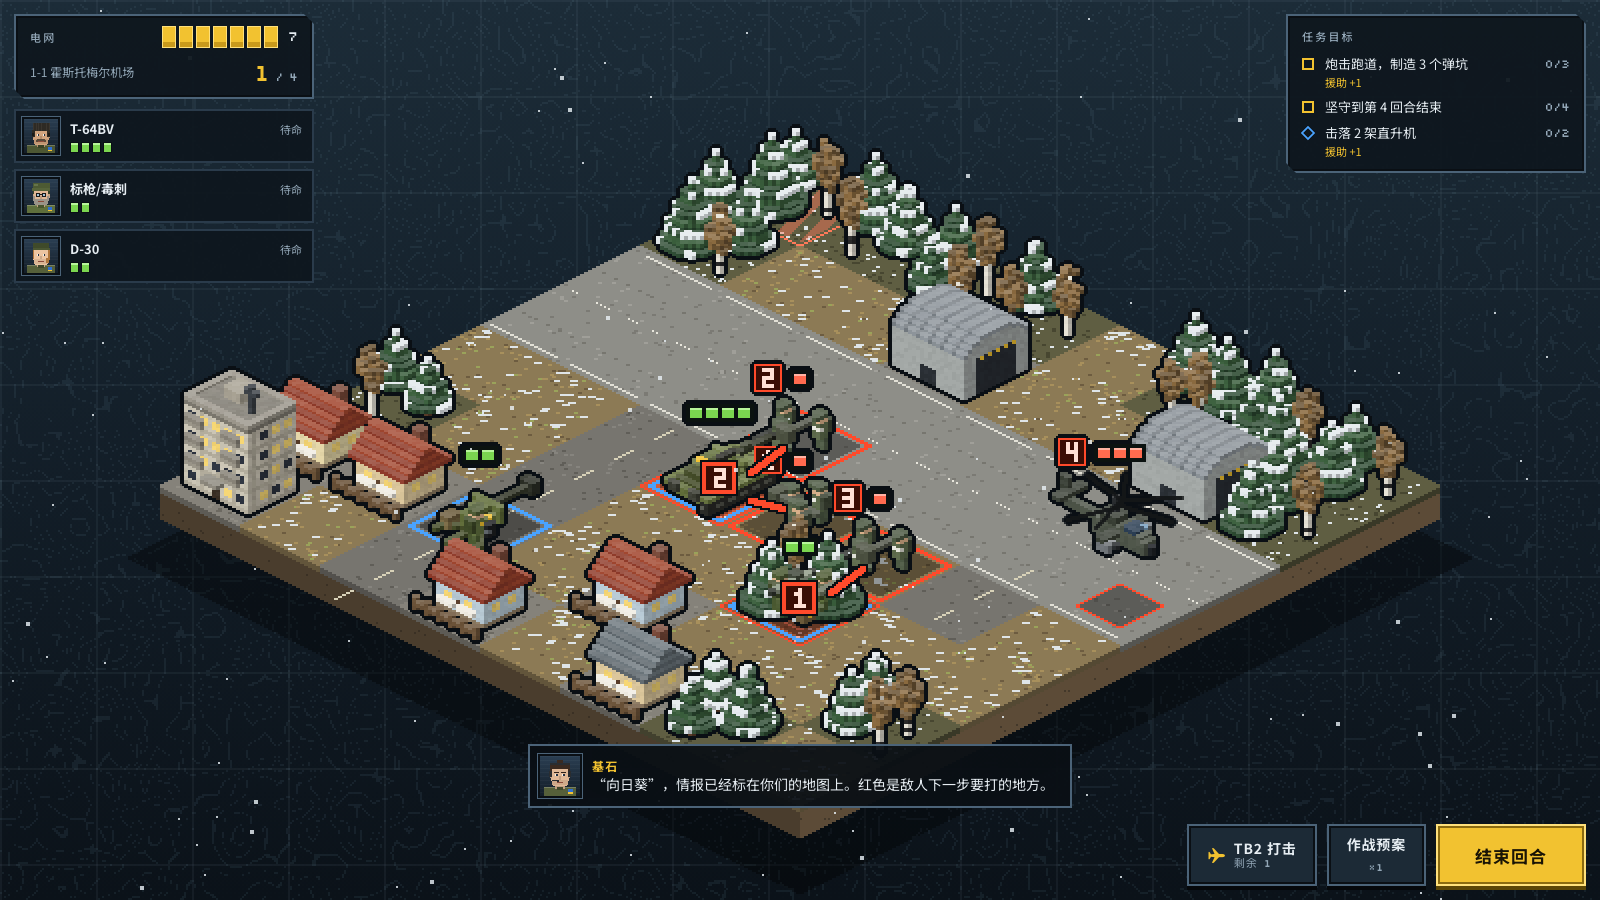
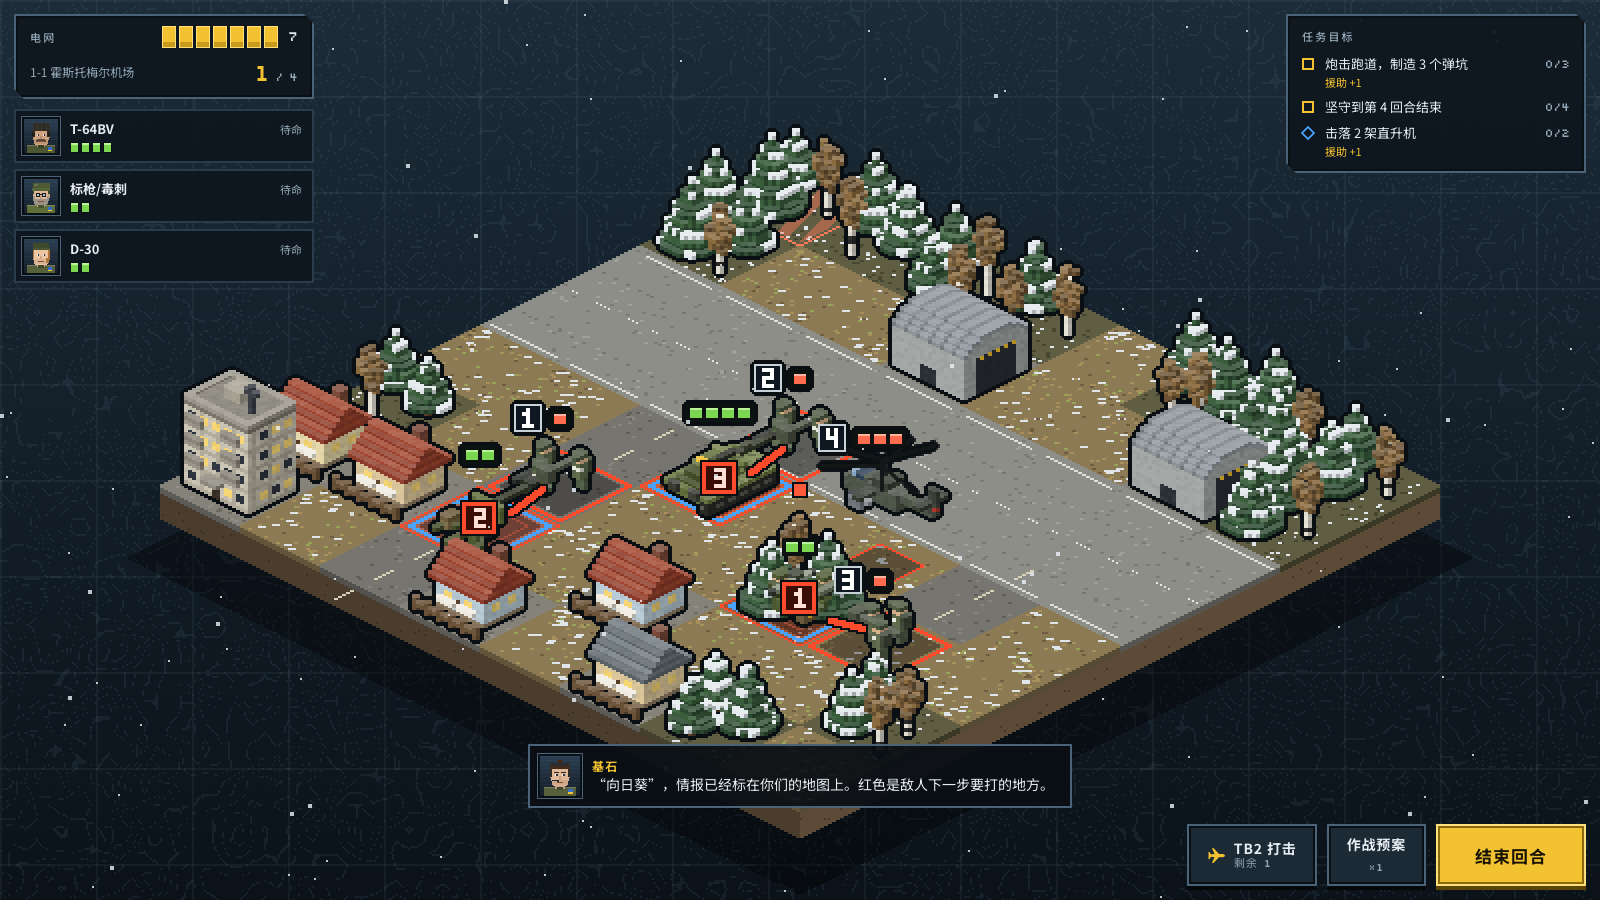
T-01: 第 2 轮修改（编号配色区分伤害数字、精简截图）

diff --git a/game/js/render.js b/game/js/render.js
@@ -380,8 +380,8 @@ function drawUnit(u, t) {
     const on = actionOrder(u);
     if (on) {
       const bw = on >= 10 ? txtW(on, 2) + 6 : 14, bx = hx - 6 - bw, by = hy - 5;
-      R(bx, by, bw, 14, '#ff4a2b'); R(bx + 1, by + 1, bw - 2, 12, '#3a0e06');
-      txt(on, bx + (bw - txtW(on, 2)) / 2, by + 2, '#ffe0d6', 2);
+      R(bx, by, bw, 14, '#c9d2d8'); R(bx + 1, by + 1, bw - 2, 12, '#0f1821');
+      txt(on, bx + (bw - txtW(on, 2)) / 2, by + 2, '#ffffff', 2);
     }
   }
   g.globalAlpha = 1;

diff --git a/docs/tasks/T-01-敌人行动顺序.md b/docs/tasks/T-01-敌人行动顺序.md
@@ -47,6 +47,16 @@
 
 需审查方决定的问题：发现 `tools/check.js` 的一个疑似 bug（不在本卡改动范围，未动）：范围检查用 `git diff --name-only` 取改动文件列表，而 git 默认 `core.quotepath=true` 会把含中文的任务卡路径转成八进制转义（如 `"docs/tasks/T-01-\346\225\214..."`），导致范围正则匹配失败、误报"改了范围外的文件"。本地设 `git config core.quotepath false` 后 check.js 全绿（34 个文件全部在范围内）。CI（ubuntu runner）使用 git 默认配置，预计任何包含中文卡文件改动的任务分支都会触发同样的误报。建议审查方在 check.js 的 git 调用中加 `-c core.quotepath=off`，或等价修复。
 
+**第 2 轮（执行方：ZCode）**
+
+按第 1 轮审查意见逐条修改：
+1. 编号样式改为底色 `#0f1821`、1 像素描边 `#c9d2d8`、数字 `#ffffff`；尺寸、位置、≥10 加宽逻辑不变。新截图里顺序编号（白字深底）与目标格上的伤害数字（红字红边）已可明显区分。
+2. `docs/tasks/shots/T-01/` 仅保留 `10-battle-start.png`、`11-battle-start.png`，其余 29 张已 `git rm`；试玩输出改到仓库外（`/tmp/pt-T-01`），两张截图重新生成后覆盖。
+
+已 `git merge origin/main`（拿到 check.js 中文路径修复与新截图规则）。本地 git 配置已还原（未设 `core.quotepath`），`node tools/check.js` 直接全绿；`node tools/playtest.js /tmp/pt-T-01` 结尾 `ERRORS none`、退出码 0。
+
+需审查方决定的问题：无。
+
 ## 审查意见（审查方写）
 
 ### 第 1 轮
